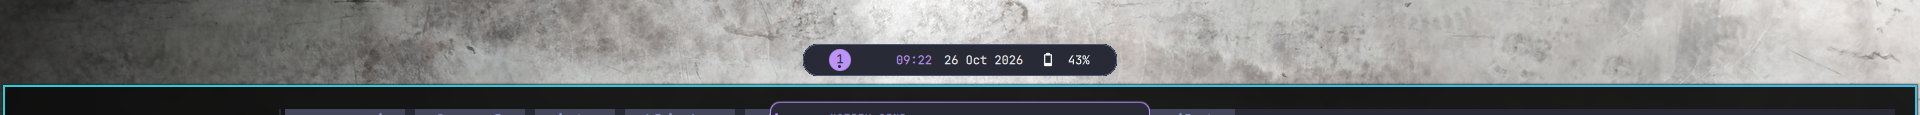
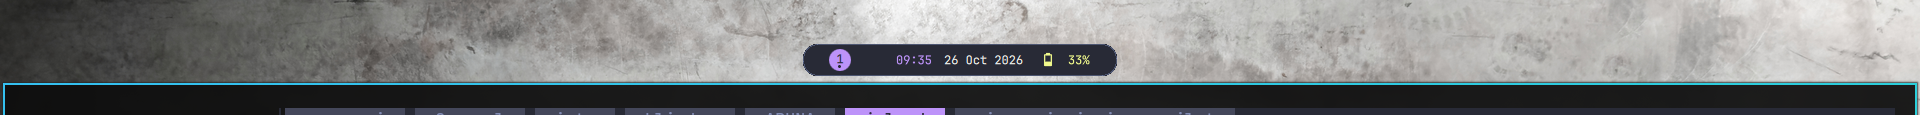
Tighten the gap under the pill: reserve 36px, not 38
The strip reserved 38px against a 32px pill, so a tiled window sat 6px
below the pill's bottom edge - three times the 3px `gaps_out` the
compositor puts beside it. Drop the strip to 36 (pill + 4px, one gap
step) and the top of the window lines up with its sides.

Measured at x=960 on eDP-2 (`gaps_out 3`, `border_size 2`): pill fill
rows 0-30, wallpaper 32-38, active border 39-40, content 41; kitty moved
from `at [5,43]` to `at [5,41]`, i.e. 7px from the pill edge to the
window frame instead of 9. The synthetic 44px cutout still adds up: 80px
strip, 104px bar window, first window at y=85, banner at y=88, convex
ears - so the screenshot and the README numbers are retaken too.

diff --git a/island/config/Theme.qml b/island/config/Theme.qml
@@ -181,9 +181,11 @@ QtObject {
 
   // --- island pill ----------------------------------------------------------
   // Screen strip the bar reserves. The pill is 32px tall and hangs off the top
-  // edge; the 6px under it is the clearance from the first tiled window, and a
-  // display cutout (Config.displayCutouts) can push the whole strip deeper.
-  readonly property int barReservedHeight: 38
+  // edge; the 4px under it is the clearance from the first tiled window (one
+  // gap step, so the window sits as far from the pill as it does from the side
+  // walls), and a display cutout (Config.displayCutouts) pushes the whole strip
+  // deeper.
+  readonly property int barReservedHeight: 36
   // One 24px slot for every glyph and every hit area in the pill, and one
   // 16px glyph size: tray icons, action icons and the battery therefore sit on
   // the same optical line whether the pill is collapsed or open, and no zone

diff --git a/island/config/Config.qml b/island/config/Config.qml
@@ -38,9 +38,10 @@ QtObject {
 
   // Display cutouts, in pixels, keyed by output name:
   //   property var displayCutouts: ({ "eDP-1": 44 })
-  // The pill moves down by the cutout and the bar's 38px strip moves with it,
-  // so the pill cannot sit under a camera housing and nothing is drawn over
-  // the first tiled window. An unlisted output keeps the plain 38px strip.
+  // The pill moves down by the cutout and the bar's own strip (Theme
+  // .barReservedHeight) moves with it, so the pill cannot sit under a camera
+  // housing and nothing is drawn over the first tiled window. An unlisted
+  // output keeps the plain strip.
   property var displayCutouts: ({})
 
   // Battery charge-limit presets, in display order. `pct` is the value written

diff --git a/island/shell.qml b/island/shell.qml
@@ -26,9 +26,9 @@ PanelWindow {
     var v = Number(map[name])
     return isFinite(v) && v > 0 ? Math.round(v) : 0
   }
-  // The strip is the bar's own 38px (pill + 6px clearance) pushed down by the
-  // housing, not max(38, cutout): reserving only the cutout would let the pill
-  // overlap the first tiled window by the pill's own height.
+  // The strip is the bar's own reserved height pushed down by the housing, not
+  // max(reserved, cutout): reserving only the cutout would let the pill overlap
+  // the first tiled window by the pill's own height.
   readonly property int reservedHeight: Theme.barReservedHeight + root.cutout
 
   implicitHeight: root.cutout + 60

diff --git a/README.md b/README.md
@@ -80,17 +80,21 @@ Three rules keep it honest:
   repo bans.
 - **The reserved strip grows with the housing, never shrinks.**
   `Config.displayCutouts` maps an output name to a hardware cutout height. The
-  bar reserves `38 + cutout` - its own strip, pushed down by the housing;
+  bar reserves `36 + cutout` - its own strip, pushed down by the housing;
   reserving only the cutout would let the pill cover the first tiled window -
-  and moves the pill down by the cutout itself. The drop's ears then flip from
-  concave to convex (`DropShape.concaveTop`), because a surface that no longer
-  hangs off the screen edge needs a top border too. Banners sit 8px under the
-  strip and follow it for free: on Hyprland a top-anchored layer surface is
-  positioned *below* the reserved area, which is why the old 46px margin
-  actually placed banners at y=84 rather than y=46. An empty map, the default,
-  changes nothing: 38px strip, pill at y=0, first window at y=43. Verified with
-  a synthetic 44px cutout: strip 82px, bar window 104px, first window at y=87,
-  pill filling 44-76, convex corners, banner at y=90.
+  and moves the pill down by the cutout itself. That 36 is the 32px pill plus
+  4px of clearance, so a tiled window sits almost as close below the pill as
+  `general:gaps_out` sets it from the side walls; the window's own `border_size`
+  is the rest of the visible gap. The drop's ears then flip from concave to
+  convex (`DropShape.concaveTop`), because a surface that no longer hangs off
+  the screen edge needs a top border too. Banners sit 8px under the strip and
+  follow it for free: on Hyprland a top-anchored layer surface is positioned
+  *below* the reserved area, which is why the old 46px margin actually placed
+  banners at y=84 rather than y=46. An empty map, the default, changes nothing:
+  36px strip, pill at y=0, first window frame at y=39 and its content at y=41
+  (`gaps_out 3`, `border_size 2`). Verified with a synthetic 44px cutout: strip
+  80px, bar window 104px, first window at y=85, pill filling rows 45-74, convex
+  corners, banner at y=88.
 
 ---
 
